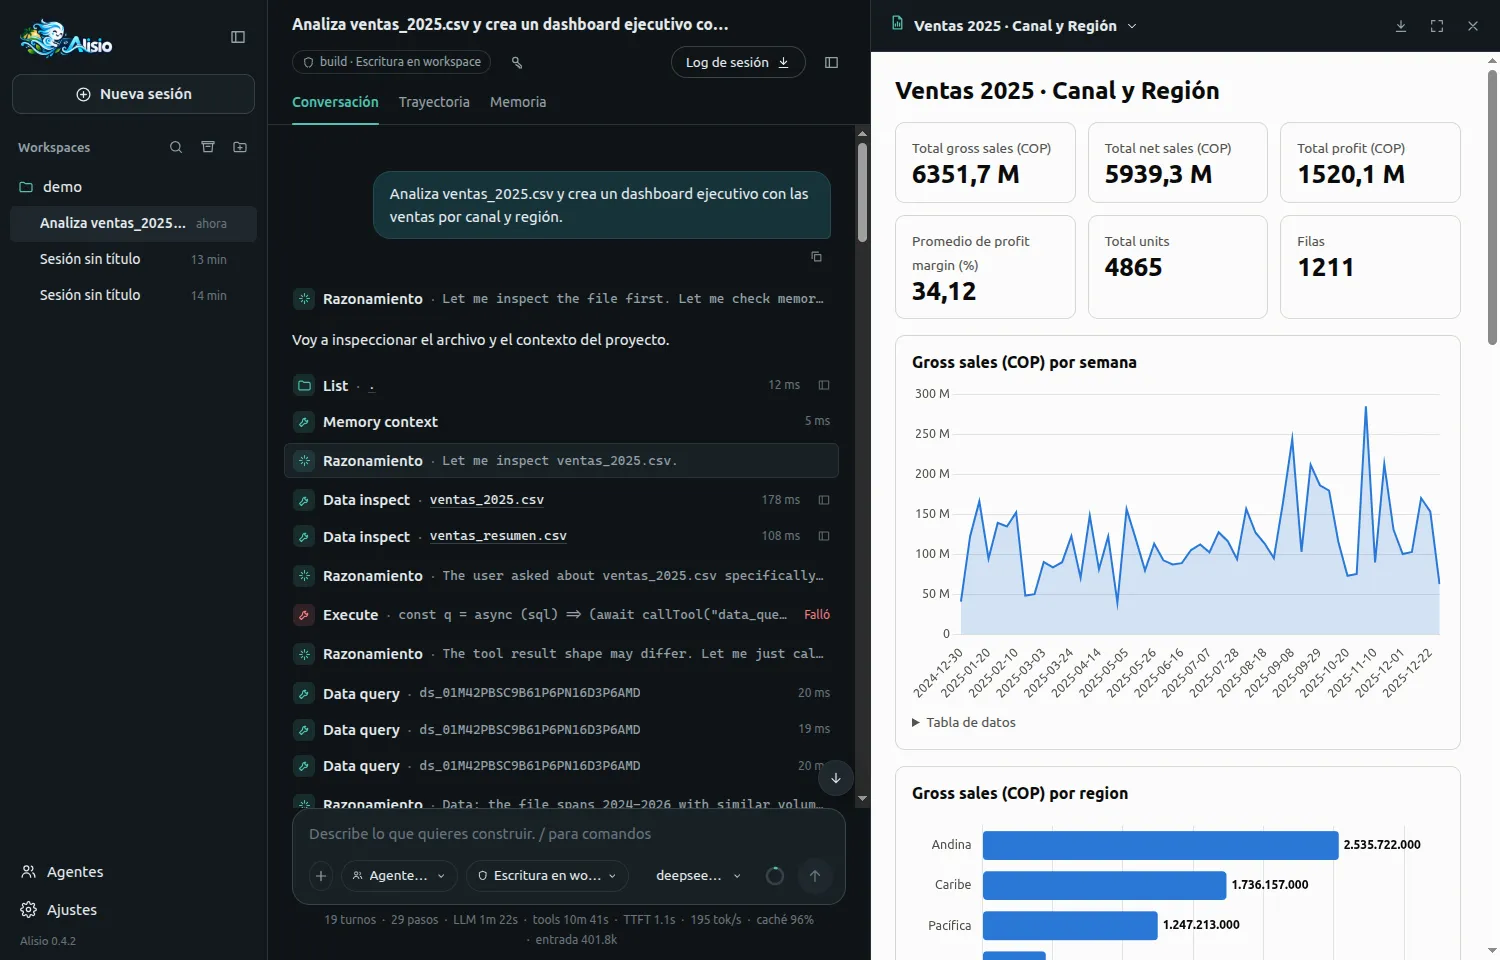
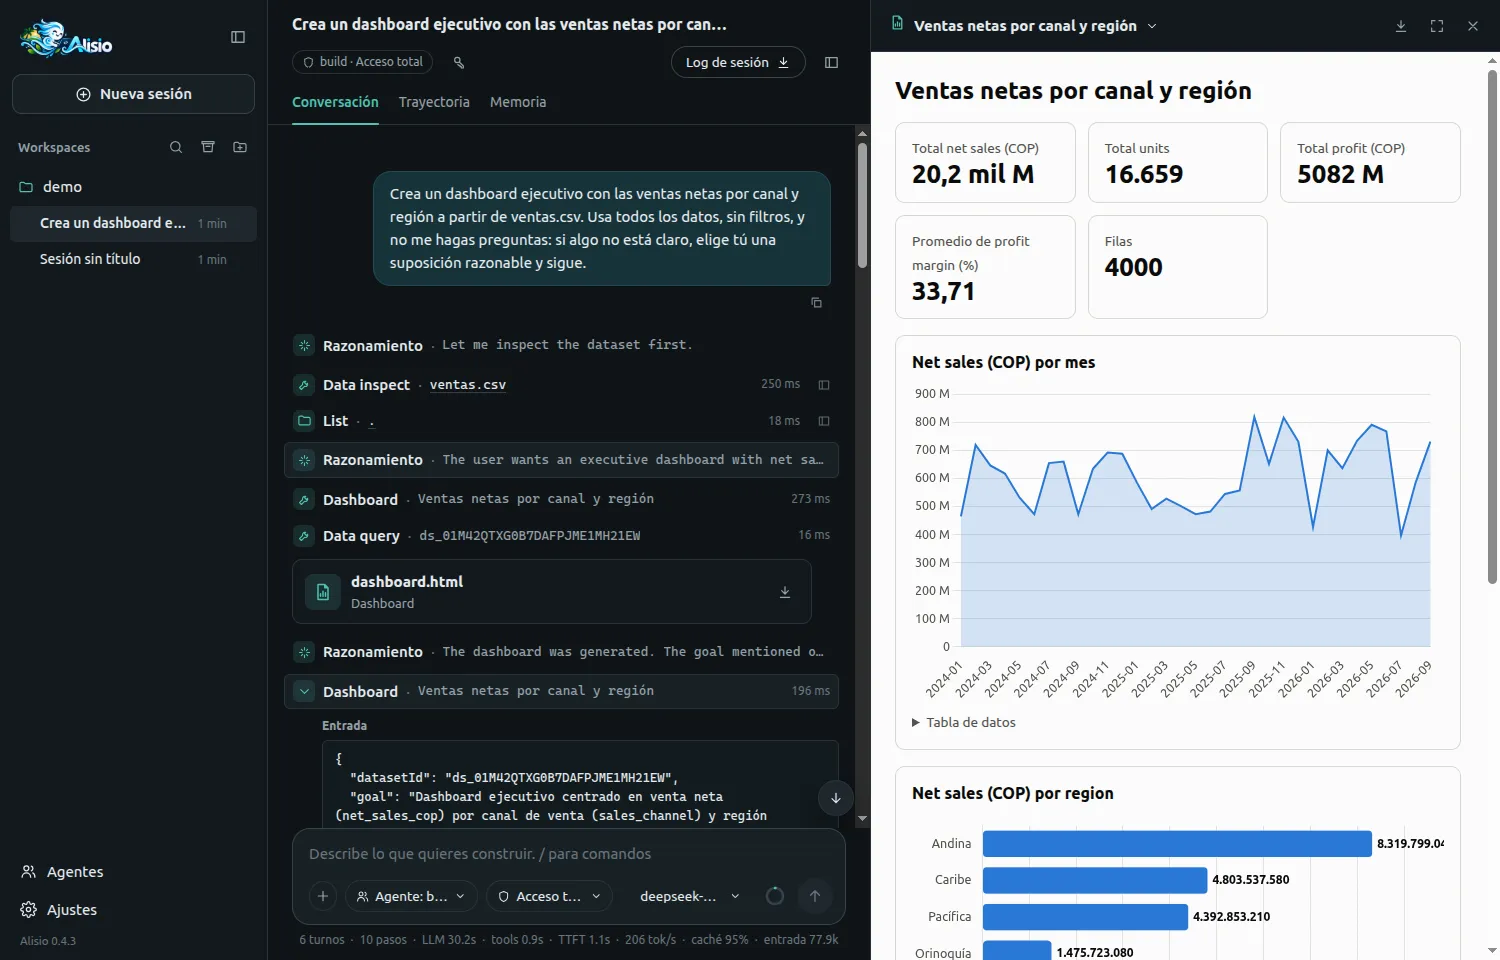
docs: update the Smart Dashboard run with Laya after a controlled second run

diff --git a/docs/es/smart-dashboard.md b/docs/es/smart-dashboard.md
@@ -195,39 +195,57 @@ el agente sabe que debe pasar a Python.
 
 ## Una ejecución real con Laya {#real-run}
 
-Es una sesión real (2026-10-04) en la [interfaz web](/es/web): Alisio 0.4.2, `@alisio/plugin-laya`
-0.1.1 activo, `deepseek-flash` como modelo y un CSV de ventas de 4000 filas. El prompt pedía un
-dashboard ejecutivo con las ventas por canal y región.
+Son dos sesiones reales (2026-10-04) en la [interfaz web](/es/web), con la compilación candidata de
+0.4.3, `@alisio/plugin-laya` 0.1.1 y `deepseek-flash` como modelo. El dataset es un CSV de ventas de
+4000 filas renombrado `ventas.csv`. Ambas ejecuciones usaron el mismo prompt en español, «Crea un
+dashboard ejecutivo con las ventas netas por canal y región a partir de ventas.csv. Usa todos los
+datos, sin filtros, y no me hagas preguntas…», y el modo de permisos «Acceso total», así que el
+agente no hizo preguntas ni mostró solicitudes de aprobación, y nadie esperó al usuario. Una
+ejecución tuvo Laya activo (L) y la otra no tuvo proveedor de decisiones y la memoria desactivada
+(N2).
 
 <figure class="doc-shot">
-  <img src="../assets/web-ui/smart_dashboard_laya_web_ui.webp" alt="La interfaz web con el workspace demo: el prompt que pide un dashboard ejecutivo de ventas_2025.csv por canal y región, y el dashboard Ventas 2025 · Canal y Región abierto en el panel de artefactos, con seis tarjetas KPI, un gráfico de área por semana, un gráfico de barras horizontales por región y gráficos de anillo." width="1500" height="960" loading="lazy" decoding="async" />
-  <figcaption>El dashboard producido por <code>dashboard_generate</code> con Laya activo, a partir de un CSV de ventas de 4000 filas.</figcaption>
+  <img src="../assets/web-ui/smart_dashboard_laya_web_ui.webp" alt="La interfaz web tras la ejecución con Laya: el prompt pide las ventas netas por canal y región de ventas.csv sin filtros, la línea de resumen de la ejecución muestra 6 turnos, 10 pasos, LLM 30,2 s y herramientas 0,9 s, y el dashboard Ventas netas por canal y región está abierto en el visor." width="1500" height="960" loading="lazy" decoding="async" />
+  <figcaption>La ejecución con Laya: 6 turnos, 10 pasos, LLM 30,2 s, herramientas 0,9 s y el dashboard «Ventas netas por canal y región» en el visor.</figcaption>
 </figure>
 
-| Medida | Valor |
-| --- | --- |
-| `dashboard_generate` en sí | 239 ms |
-| Respuesta de Laya | 196 ms, confianza 0,91, 1 decisión, ninguna rechazada, sin fallback |
-| Procedencia del artefacto | `rules+decisions`, proveedor de decisiones `laya` |
-| Del envío al primer dashboard | 672 s |
-| de los cuales la pregunta del propio agente esperando al usuario | 607 s (período y pedidos cancelados) |
-| de los cuales una solicitud de permiso | 32 s |
-| Tiempo de trabajo del propio agente | unos 33 s (inspeccionar los datos, unas consultas y luego la herramienta) |
+| Medida | Con Laya (L) | Sin proveedor, memoria desactivada (N2) |
+| --- | --- | --- |
+| Del envío al primer dashboard publicado | 5,0 s | 4,5 s |
+| La llamada a `dashboard_generate` en sí | 161 ms | 52 ms |
+| Tiempo del modelo antes de llamar a la herramienta | 4,9 s (2 turnos) | 4,5 s (1+ turnos) |
+| Decisiones | 2 completadas (101 ms y 30 ms, confianza 0,99 o más, ninguna rechazada, sin fallback) | ninguna |
+| Procedencia del artefacto | `rules+decisions`, proveedor de decisiones `laya` | `rules` |
+| Medida principal y gráficos | las ventas netas lideran en ambas; KPI ventas netas, unidades, utilidad, margen, filas; ventas netas en el tiempo, por región, por canal | igual |
+| `python_run` después del dashboard | 0 | 4 llamadas y 1 dashboard extra en Python («Complemento ejecutivo: canal × región») 35,7 s después |
+| Dashboards publicados | 2, ambos de `dashboard_generate` (el modelo llamó a la herramienta una segunda vez, 5,7 s después) | 2 (1 generado + 1 de Python) |
+| Ejecución completa (turnos / llamadas a herramientas / tokens de entrada + salida) | 32,3 s (6 / 10 / 77.919 + 6.223) | 45,2 s (8 / 7 / 111.240 + 9.424) |
+
+Tras la ejecución con Laya, `/decisions` informó 2 peticiones, 2 completadas, 0 fallbacks, latencia
+media de 66 ms y percentil 95 de 101 ms (véase
+[Decision Intelligence](/es/decision-intelligence#decisions-command)).
 
 Qué esperar:
 
-- La herramienta y Laya son rápidas. Casi todo el tiempo de reloj de esta ejecución fue espera del
-  usuario.
-- El modelo construyó después un segundo dashboard con Python 37 s más tarde. Quería ventas netas (el
-  primer dashboard graficó ventas brutas porque la frase en español «ventas netas» no coincidió con
-  la columna de ventas netas; corregido en 0.4.3), un cruce canal x región y un filtro que excluyera
-  los pedidos cancelados, y los dos últimos no están en el catálogo. También escribió un CSV extra
-  en el workspace.
-- Así que el tiempo de punta a punta depende de cuánto necesite su petición más allá del catálogo.
-  Véanse las [Limitaciones](#limitations).
+- El tiempo hasta un dashboard fue de unos 5 s en ambas ejecuciones. La herramienta más la respuesta
+  de Laya tardaron bastante menos de un cuarto de segundo; Laya añade unos 100 ms a la llamada de la
+  herramienta.
+- En la ejecución con Laya el modelo no reconstruyó nada en Python. Sin proveedor sí lo hizo, pero
+  una ejecución por configuración no puede demostrar que Laya sea la causa.
+- El dashboard tiene gráficos por canal y por región, pero no una tabla cruzada canal x región (no
+  está en el catálogo). Cuando la petición la necesita, el agente recurre a Python. Véanse las
+  [Limitaciones](#limitations).
+- Las notas de memoria de sesiones anteriores pueden cambiar lo que hace el agente. Hubo que
+  descartar una tercera ejecución (memoria activada, sin proveedor) porque una nota guardada por una
+  ejecución anterior orientó al agente.
 
-Es una sesión, un dataset y un modelo; no es un benchmark. Para la comparación medida véanse los
-[Resultados del benchmark](#benchmark).
+Es una sesión por configuración, un dataset y un modelo; no demuestra una diferencia estadística ni
+es un benchmark. Para la comparación medida véanse los [Resultados del benchmark](#benchmark).
+
+A modo de comparación, la primera ejecución, con la 0.4.2 publicada, hizo dos preguntas al usuario.
+Tardó 672 s del envío al dashboard, y 607 s fueron el agente esperando las respuestas del usuario.
+Además, el modelo reconstruyó el dashboard en Python porque «ventas netas» no coincidía con la
+columna de ventas netas; está corregido en esta versión.
 
 ## Resultados del benchmark {#benchmark}
 

diff --git a/docs/smart-dashboard.md b/docs/smart-dashboard.md
@@ -187,37 +187,54 @@ column). If you need a filter or a cut, say so in the prompt: the agent then kno
 
 ## A real run with Laya {#real-run}
 
-This is one real session (2026-10-04) in the [web UI](/web): Alisio 0.4.2, `@alisio/plugin-laya`
-0.1.1 active, `deepseek-flash` as the model and a 4000-row sales CSV. The prompt asked for an
-executive dashboard with sales by channel and region.
+These are two real sessions (2026-10-04) in the [web UI](/web), on the 0.4.3 candidate build with
+`@alisio/plugin-laya` 0.1.1 and `deepseek-flash` as the model. The dataset is a 4000-row sales CSV
+renamed `ventas.csv`. Both runs used the same Spanish prompt, "Crea un dashboard ejecutivo con las
+ventas netas por canal y región a partir de ventas.csv. Usa todos los datos, sin filtros, y no me
+hagas preguntas…", and the permission mode "Acceso total", so the agent asked no questions and
+showed no approval prompts, and nobody waited for the user. One run had Laya active (L) and the
+other had no decision provider and memory off (N2).
 
 <figure class="doc-shot">
-  <img src="./assets/web-ui/smart_dashboard_laya_web_ui.webp" alt="The web UI with the demo workspace: the prompt asking for an executive dashboard of ventas_2025.csv by channel and region, and the dashboard Ventas 2025 · Canal y Región open in the artifact panel, with six KPI tiles, an area chart by week, a horizontal bar chart by region and donut charts." width="1500" height="960" loading="lazy" decoding="async" />
-  <figcaption>The dashboard produced by <code>dashboard_generate</code> with Laya active, from a 4000-row sales CSV.</figcaption>
+  <img src="./assets/web-ui/smart_dashboard_laya_web_ui.webp" alt="The web UI after the run with Laya: the prompt asks for net sales by channel and region from ventas.csv with no filters, the run summary line shows 6 turns, 10 steps, LLM 30.2 s and tools 0.9 s, and the dashboard Ventas netas por canal y región is open in the viewer." width="1500" height="960" loading="lazy" decoding="async" />
+  <figcaption>The run with Laya: 6 turns, 10 steps, LLM 30.2 s, tools 0.9 s, and the dashboard "Ventas netas por canal y región" in the viewer.</figcaption>
 </figure>
 
-| Measure | Value |
-| --- | --- |
-| `dashboard_generate` itself | 239 ms |
-| Laya answer | 196 ms, confidence 0.91, 1 decision, none rejected, no fallback |
-| Artifact provenance | `rules+decisions`, decision provider `laya` |
-| Send to first dashboard | 672 s |
-| of which the agent's own question waiting for you | 607 s (period and cancelled orders) |
-| of which a permission prompt | 32 s |
-| The agent's own working time | about 33 s (inspecting the data, a few queries, then the tool) |
+| Measure | With Laya (L) | Without a provider, memory off (N2) |
+| --- | --- | --- |
+| Send to first dashboard published | 5.0 s | 4.5 s |
+| `dashboard_generate` call itself | 161 ms | 52 ms |
+| Model time before calling the tool | 4.9 s (2 turns) | 4.5 s (1+ turns) |
+| Decisions | 2 completed (101 ms and 30 ms, confidence 0.99 or higher, none rejected, no fallback) | none |
+| Artifact provenance | `rules+decisions`, decision provider `laya` | `rules` |
+| Lead measure and charts | net sales leads in both; KPIs net sales, units, profit, margin, rows; net sales over time, by region, by channel | same |
+| `python_run` after the dashboard | 0 | 4 calls, and 1 extra Python dashboard ("Complemento ejecutivo: canal × región") 35.7 s later |
+| Dashboards published | 2, both from `dashboard_generate` (the model called the tool a second time, 5.7 s later) | 2 (1 generated + 1 Python) |
+| Whole run (turns / tool calls / tokens in + out) | 32.3 s (6 / 10 / 77,919 + 6,223) | 45.2 s (8 / 7 / 111,240 + 9,424) |
+
+After the run with Laya, `/decisions` reported 2 requests, 2 completed, 0 fallbacks, latency average
+66 ms and 95th percentile 101 ms (see
+[Decision Intelligence](/decision-intelligence#decisions-command)).
 
 What to expect:
 
-- The tool and Laya are fast. Most of the wall time in this run was waiting for the user.
-- The model then built a second dashboard with Python 37 s later. It wanted net sales (the first
-  dashboard charted gross sales because the Spanish phrasing "ventas netas" did not match the net
-  sales column; fixed in 0.4.3), a channel x region cross-cut and a filter that excludes cancelled
-  orders, and the last two are not in the catalog. It also wrote an extra CSV into the workspace.
-- So the end-to-end time depends on how much your request needs beyond the catalog. See
-  [Limitations](#limitations).
+- Time to a dashboard was about 5 s in both runs. The tool plus Laya's answer took well under a
+  quarter of a second; Laya adds roughly 100 ms to the tool call.
+- In the run with Laya the model did not rebuild anything in Python. Without a provider it did, but
+  one run each cannot show that Laya is the cause.
+- The dashboard has channel and region charts but not a channel x region cross-tab (it is not in the
+  catalog). When the request needs one, the agent goes to Python. See [Limitations](#limitations).
+- Memory notes from earlier sessions can change what the agent does. A third run (memory on, no
+  provider) had to be discarded because a note saved by an earlier run steered the agent.
 
-This is one session, one dataset and one model; it is not a benchmark. For the measured comparison
-see [Benchmark results](#benchmark).
+This is one session per configuration, one dataset and one model; it does not show a statistical
+difference and it is not a benchmark. For the measured comparison see
+[Benchmark results](#benchmark).
+
+For comparison, the first run, on the published 0.4.2, asked the user two questions. It took 672 s
+from send to dashboard, and 607 s of that was the agent waiting for the user's answers. The model
+also rebuilt the dashboard in Python because "ventas netas" did not match the net sales column; that
+is fixed in this release.
 
 ## Benchmark results {#benchmark}
 

diff --git a/docs/implementation-status.md b/docs/implementation-status.md
@@ -2264,13 +2264,20 @@ el 2026-10-01 (D10: retención 30 / 7 días y artefactos sin caducidad).
   repetición por dataset), C 5 (informativa, en paralelo con B, tiempos no comparables); la puerta de
   §11.2 falla en tokens de salida y turnos. La línea base A está limitada por el presupuesto de
   tokens, y el orden de las llamadas solo se reconstruyó en C.
-- Ejecución real con Laya (2026-10-04, interfaz web, Alisio 0.4.2, `@alisio/plugin-laya` 0.1.1,
-  `deepseek-flash`, un CSV de ventas de 4000 filas; una sola sesión, un solo dataset y un solo
-  modelo): `dashboard_generate` tardó 239 ms; Laya respondió en 196 ms con confianza 0,91 (1 decisión,
-  ninguna rechazada, sin fallback; procedencia `rules+decisions`). Del envío al primer dashboard
-  pasaron 672 s, de los cuales 607 s fueron la pregunta aclaratoria del agente esperando al usuario y
-  32 s una solicitud de permiso; el trabajo propio del agente fue de unos 33 s. El modelo construyó
-  después un segundo dashboard con Python a los 37 s. Capturas en la documentación.
+- Ejecución real con Laya (2026-10-04, interfaz web, compilación candidata de 0.4.3,
+  `@alisio/plugin-laya` 0.1.1, `deepseek-flash`, un CSV de ventas de 4000 filas renombrado
+  `ventas.csv`, prompt en español sin preguntas y modo «Acceso total», sin esperas del usuario; un
+  solo dataset, un solo modelo y una sola sesión por configuración): con Laya el primer dashboard se
+  publicó a los 5,0 s del envío, `dashboard_generate` tardó 161 ms y hubo 2 decisiones completadas
+  (101 ms y 30 ms, ninguna rechazada, sin fallback; procedencia `rules+decisions`); el modelo no usó
+  `python_run` después y la ejecución completa tomó 32,3 s. Sin proveedor y con la memoria
+  desactivada, el primer dashboard llegó a los 4,5 s (52 ms), el modelo hizo 4 llamadas a
+  `python_run` y publicó un dashboard extra en Python (canal x región), 45,2 s en total; con una sola
+  ejecución por configuración no se puede atribuir esa diferencia a Laya. Una tercera ejecución
+  (memoria activada, sin proveedor) se descartó porque una nota guardada por una ejecución anterior
+  orientó al agente. `/decisions` informó 2 peticiones, 0 fallbacks, latencia media de 66 ms y p95 de
+  101 ms. La primera ejecución (0.4.2 publicada) tardó 672 s por las preguntas del agente. Capturas en
+  la documentación.
 - No verificado: otros modelos en el benchmark; la variante C a mayor escala; la línea de progreso en
   un terminal real; otros navegadores, Windows y macOS; lectores de pantalla; y datasets muy grandes
   en el navegador.
@@ -2866,8 +2873,8 @@ el 2026-10-01 (D10: retención 30 / 7 días y artefactos sin caducidad).
 - **Un dataset por llamada**, sin uniones entre hojas ni archivos, sin filtros interactivos y sin
   regeneración incremental con memoria del dashboard anterior (cada llamada es independiente).
 - **Sin tablas cruzadas, sin filtros de filas y sin métricas derivadas** (margen, variación
-  interanual, tasas): en la ejecución real el modelo recurrió a `python_run` para un cruce canal x
-  región y para excluir pedidos cancelados. Además, la frase «ventas netas» no coincidía con la
+  interanual, tasas): en una ejecución real el modelo recurrió a `python_run` para un cruce canal x
+  región y para excluir pedidos cancelados. Además, en la primera ejecución real la frase «ventas netas» no coincidía con la
   columna de ventas netas y el dashboard usó ventas brutas; corregido en 0.4.3.
 - **Solo las fechas ISO 8601** son columnas de tiempo: otros formatos de fecha no producen tendencia.
   Las marcas con zona horaria se normalizan a UTC y un texto como `"2024"` no se trata como fecha.

diff --git a/docs/es/decision-intelligence.md b/docs/es/decision-intelligence.md
@@ -189,6 +189,11 @@ percentil 95), la última alternativa con su motivo y las llamadas por pack de d
   <figcaption>El informe de <code>/decisions</code> tras unas cuantas decisiones, una de ellas con alternativa (interfaz en español).</figcaption>
 </figure>
 
+<figure class="doc-shot">
+  <img src="../assets/web-ui/decisions_laya_web_ui.webp" alt="El informe de /decisions tras una ejecución de Smart Dashboard: el proveedor laya está listo, el pack es smart-dashboard-v1 y la tabla muestra 2 peticiones, 2 completadas y 0 fallbacks, con latencia media de 66 ms y percentil 95 de 101 ms." width="1280" height="820" loading="lazy" decoding="async" />
+  <figcaption>El informe de <code>/decisions</code> tras una ejecución real de Smart Dashboard con Laya: 2 peticiones completadas, 0 fallbacks, latencia media de 66 ms y p95 de 101 ms.</figcaption>
+</figure>
+
 ### `/stats` {#stats-section}
 
 Cuando ha ocurrido al menos una decisión en la sesión, `/stats` añade una sección **Decision

diff --git a/docs/decision-intelligence.md b/docs/decision-intelligence.md
@@ -179,6 +179,11 @@ last fallback with its reason, and the calls per decision pack.
   <figcaption>The <code>/decisions</code> report after a few decisions, one of them a fallback (Spanish interface).</figcaption>
 </figure>
 
+<figure class="doc-shot">
+  <img src="./assets/web-ui/decisions_laya_web_ui.webp" alt="The /decisions report after a Smart Dashboard run: provider laya is ready, the pack is smart-dashboard-v1, and the table shows 2 requests, 2 completed and 0 fallbacks, with latency average 66 ms and 95th percentile 101 ms." width="1280" height="820" loading="lazy" decoding="async" />
+  <figcaption>The <code>/decisions</code> report after a real Smart Dashboard run with Laya: 2 requests completed, 0 fallbacks, latency average 66 ms and p95 101 ms.</figcaption>
+</figure>
+
 ### `/stats` {#stats-section}
 
 When at least one decision happened in the session, `/stats` adds a **Decision Intelligence**
